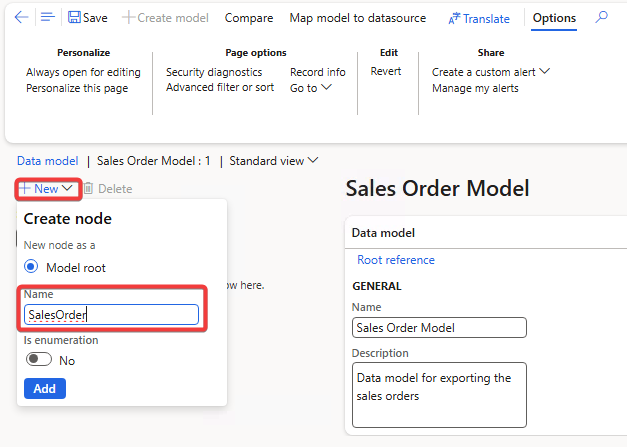
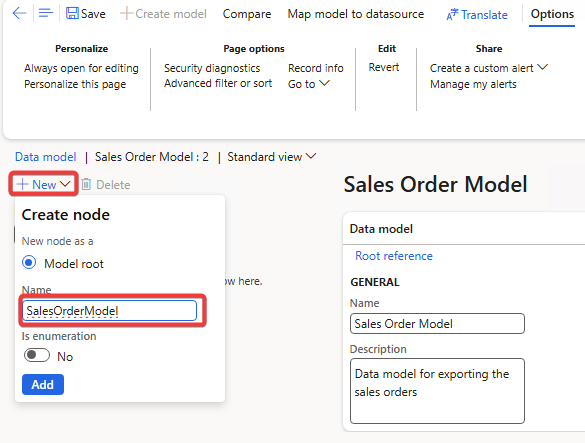
Modify ER post

diff --git a/content/posts/ER/electronic-reporting-part1.fr.md b/content/posts/ER/electronic-reporting-part1.fr.md
@@ -67,18 +67,21 @@ Prenons un exemple concret et volontairement simple pour cette première partie 
 1. Sélectionne la configuration `Sales Order Model` fraîchement créée
 2. Clique sur **Concepteur**
 {{< img src="images/ER/image5.png" alt="select model designer" >}}
-3. Dans le designer, clique sur **Nouveau** pour ajouter le nœud racine :
-   - **Name** : `SalesOrder`
+3. Dans le designer, clique sur **Nouveau** pour ajouter un nœud racine :
+   - **Name** : `SalesOrderModel`
 {{< img src="images/ER/image6.png" alt="add root" >}}
-4. Sélectionne ce nœud racine, puis clique de nouveau sur **New** pour ajouter un premier champ enfant :
+4. Sélectionne ce nœud racine, puis clique de nouveau sur **New** pour ajouter un premier nœud enfant `SalesOrder` de type `Record List` :
+Ce nœud affiche la liste des commandes de vente
+{{< img src="images/ER/image9.png" alt="add root" >}}
+5. Sélectionne le nœud `SalesOrder`, puis clique de nouveau sur **New** pour ajouter un premier champ enfant :
    - **Name** : `SalesId`
    - **Type** : Chaine
 {{< img src="images/ER/image7.png" alt="add root" >}}
-5. Répète l'opération pour ajouter :
+6. Répète l'opération pour ajouter :
    - **Name** : `CustAccount`
    - **Type** : Chaine
-6. Clique sur **Enregistrer**
-7. Ferme le designer, puis clique sur **Modifier le statut** pour passer la configuration de **Brouillon** à **Terminé(e)**
+7. Clique sur **Enregistrer**
+8. Ferme le designer, puis clique sur **Modifier le statut** pour passer la configuration de **Brouillon** à **Terminé(e)**
 {{< img src="images/ER/image8.png" alt="chage status" >}}
 **Pourquoi passer par "Change status" ?** Une configuration en statut "Draft" (brouillon) est en cours d'édition. Il faut la faire passer par au moins "Terminé(e)" pour qu'elle devienne sélectionnable comme source dans les étapes suivantes (mapping et format).
  

diff --git a/content/posts/ER/electronic-reporting-part1.en.md b/content/posts/ER/electronic-reporting-part1.en.md
@@ -68,17 +68,20 @@ Let's use a concrete, deliberately simple example for this first part: a data mo
 2. Select **Designer**
 {{< img src="images/ER/image5.png" alt="select model designer" >}}
 3. In the designer, select **New** to add the root node:
-   - **Name**: `SalesOrder`
+   - **Name**: `SalesOrderModel`
 {{< img src="images/ER/image6.png" alt="add root" >}}
-4. Select this root node, then select **New** again to add a first child field:
+4. Select this root node, then select **New** again to add a first child node `SalesOrder` of type `Record List`.
+This node show list of sales orders.
+{{< img src="images/ER/image9.png" alt="add root" >}}
+5. Select `SalesOrder` node , then select **New** again to add a first child node field:
    - **Name**: `SalesId`
    - **Type**: String
 {{< img src="images/ER/image7.png" alt="add root" >}}
-5. Repeat the operation to add:
+6. Repeat the operation to add:
    - **Name**: `CustAccount`
    - **Type**: String
-6. Select **Save**
-7. Close the designer, then select **Change status** to move the configuration from **Draft** to **Completed**
+7. Select **Save**
+8. Close the designer, then select **Change status** to move the configuration from **Draft** to **Completed**
 {{< img src="images/ER/image8.png" alt="chage status" >}}
 **Why go through "Change status"?** A configuration in "Draft" status is still being edited. It needs to move to at least "Completed" for it to become selectable as a source in the next steps (mapping and format).
  
